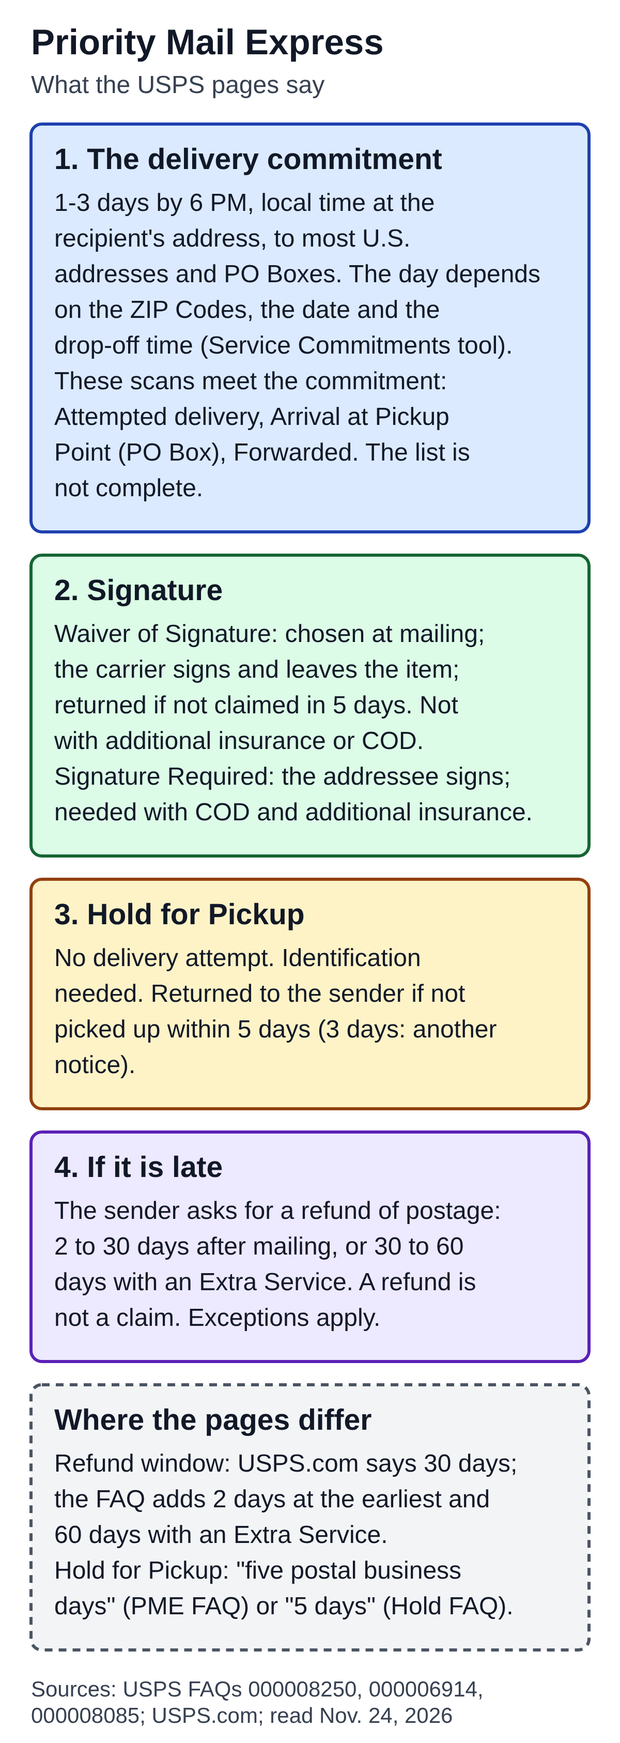
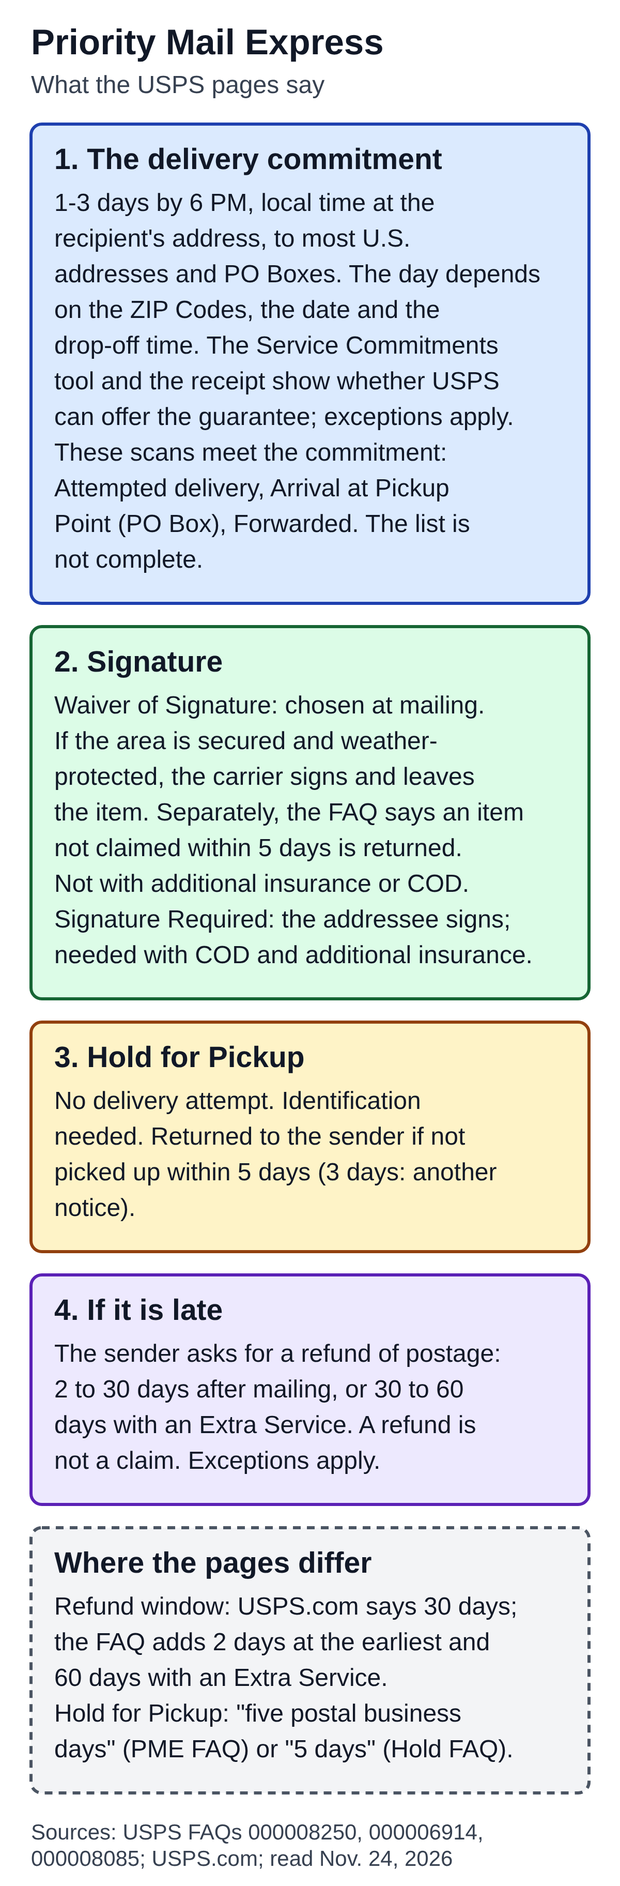
Fix PME and Return Receipt drafts after Gate 2 round 1
PME: separate a left-in-secure-place delivery from the 5-day unclaimed
return; put the guarantee's conditions next to it. Return Receipt: add the
48-hour condition and the refund exceptions to the diagram, explain the 48
hour and 3 to 5 day points side by side, tie PME "Form 3811 only" to the
green card. QA, backlog and decision log updated.

Claude-Session: https://claude.ai/code/session_01BXtGEA3Qzg6u2ejRb8jbFU

Changed region(s): [[0.0308, 0.0, 0.9558, 0.9964], [0.925, 0.9342, 0.9558, 0.9653]]

diff --git a/content/drafts/usps-return-receipt-how-it-works.md b/content/drafts/usps-return-receipt-how-it-works.md
@@ -8,7 +8,7 @@ status: draft
 date: 2026-11-24
 internal_link_candidates: usps-certified-mail-how-it-works (published; Return Receipt as an add-on); usps-redelivery-how-it-works (published; notice for signature items); usps-refund-how-it-works (published; refund windows). Each appears once in the body; link texts match the live titles. The Priority Mail Express post of the same day is not linked.
 image: assets/optimized/usps-return-receipt-how-it-works.png
-image_alt: "Diagram of what USPS pages say about a Return Receipt. What it shows: the recipient's signature, the date of delivery and the actual delivery address if different. Bought at the time of mailing; it cannot be bought after mailing. Green card, PS Form 3811: mailed to the sender after delivery; the form is attached at mailing and the mail is endorsed Return Receipt Requested; the card cannot be viewed online. Electronic: bought at a Post Office, then requested on the USPS Tracking website with an email address; usually available within 48 hours of delivery; kept two years. If it did not arrive: ask for the delivery record within 90 days of purchase with PS Form 3811-A. The pages differ on when the email should arrive, on how the email address is given and on the refund timing."
+image_alt: "Diagram of what USPS pages say about a Return Receipt. What it shows: the recipient's signature, the date of delivery and the actual delivery address if different. Bought at the time of mailing; it cannot be bought after mailing. Green card, PS Form 3811: mailed to the sender after delivery; the form is attached at mailing and the mail is endorsed Return Receipt Requested; the card cannot be viewed online; Priority Mail Express is marked Form 3811 only. Electronic: bought at a Post Office, then requested on the USPS Tracking website with an email address; if requested before delivery, usually available within 48 hours of delivery, and if the item is already delivered and the record complete, processed right away; kept two years. If it did not arrive: ask for the delivery record within 90 days of purchase with PS Form 3811-A; the fee is refunded only if USPS fails to provide the signature, unless the item was refused, unclaimed or returned to the sender. The pages differ on how the email address is given and on the refund timing."
 ---
 
 # USPS Return Receipt: Green Card vs. Electronic Proof of Delivery
@@ -17,7 +17,7 @@ image_alt: "Diagram of what USPS pages say about a Return Receipt. What it shows
 
 This article uses the USPS FAQ "Return Receipt - The Basics" (Article 000006076, dated September 18, 2026), the USPS FAQ "Electronic Return Receipt" (Article 000007257, dated May 18, 2026) and section 6.0 of Domestic Mail Manual (DMM) 503, "Additional Mailing Services" (no update date shown), all read on November 24, 2026. It gives no fees or prices, and it does not repeat how Certified Mail works, which is in our article [What Is USPS Certified Mail? What It Includes and How It Works](https://statesideexplained.com/usps-certified-mail-how-it-works/).
 
-![Diagram of what USPS pages say about a Return Receipt. What it shows: the recipient's signature, the date of delivery and the actual delivery address if different. Bought at the time of mailing; it cannot be bought after mailing. Green card, PS Form 3811: mailed to the sender after delivery; the form is attached at mailing and the mail is endorsed Return Receipt Requested; the card cannot be viewed online. Electronic: bought at a Post Office, then requested on the USPS Tracking website with an email address; usually available within 48 hours of delivery; kept two years. If it did not arrive: ask for the delivery record within 90 days of purchase with PS Form 3811-A. The pages differ on when the email should arrive, on how the email address is given and on the refund timing.](assets/optimized/usps-return-receipt-how-it-works.png)
+![Diagram of what USPS pages say about a Return Receipt. What it shows: the recipient's signature, the date of delivery and the actual delivery address if different. Bought at the time of mailing; it cannot be bought after mailing. Green card, PS Form 3811: mailed to the sender after delivery; the form is attached at mailing and the mail is endorsed Return Receipt Requested; the card cannot be viewed online; Priority Mail Express is marked Form 3811 only. Electronic: bought at a Post Office, then requested on the USPS Tracking website with an email address; if requested before delivery, usually available within 48 hours of delivery, and if the item is already delivered and the record complete, processed right away; kept two years. If it did not arrive: ask for the delivery record within 90 days of purchase with PS Form 3811-A; the fee is refunded only if USPS fails to provide the signature, unless the item was refused, unclaimed or returned to the sender. The pages differ on how the email address is given and on the refund timing.](assets/optimized/usps-return-receipt-how-it-works.png)
 
 ## What a Return Receipt shows
 
@@ -47,13 +47,13 @@ The Basics FAQ says a Return Receipt may be purchased at the time of mailing, an
 
 The Basics FAQ says Return Receipt (PS Form 3811) is available for Priority Mail Express (marked "Form 3811 only"), Priority Mail, First-Class Mail, USPS Ground Advantage - Commercial and Parcel Select. After Parcel Select it puts a condition in parentheses, "if purchased with" Certified Mail, Collect on Delivery (COD), insurance over a value the FAQ states, or Registered Mail, and it does not say whether the condition covers the classes listed before it. It lists further classes, including Bound Printed Matter, Library Mail and Media Mail, when bought with COD or insurance over that value. For international mail, the FAQ says a Return Receipt is available for First-Class Mail International only with Registered Mail to certain destinations, using PS Form 2865, a pink card.
 
-The same FAQ lists extra services that can be combined with a Return Receipt: Certified Mail (including its restricted delivery and adult signature variants), Restricted Delivery, COD, Registered Mail, USPS Tracking, Signature Confirmation, insurance above the stated value and Adult Signature services. Some of these are marked "Form 3811 only." The Electronic Return Receipt FAQ lists the domestic classes in the same way and also marks Priority Mail Express "Form 3811 only." The DMM's sentence about the PME return address carries the note "Form 3811 option only." Our [USPS Redelivery: How to Schedule It, Cutoffs and Return Dates](https://statesideexplained.com/usps-redelivery-how-it-works/) article lists Return Receipt among the items that get a redelivery notice.
+The same FAQ lists extra services that can be combined with a Return Receipt: Certified Mail (including its restricted delivery and adult signature variants), Restricted Delivery, COD, Registered Mail, USPS Tracking, Signature Confirmation, insurance above the stated value and Adult Signature services. Some of these are marked "Form 3811 only." Both FAQs mark Priority Mail Express "Form 3811 only." Form 3811 is the green card, one of the two forms a mailer can choose between, so for Priority Mail Express the FAQs point to the green card rather than the email. The DMM has a similar note, "Form 3811 option only," but it appears in its sentence about the return address on the PME label, so this article reads it as applying to that sentence and not to the whole service. Our [USPS Redelivery: How to Schedule It, Cutoffs and Return Dates](https://statesideexplained.com/usps-redelivery-how-it-works/) article lists Return Receipt among the items that get a redelivery notice.
 
 ## Getting the electronic version
 
 The Electronic Return Receipt FAQ says it must be requested at the time of mailing and that USPS must wait for delivery and for the signature record to be complete before it can email it. To get the delivery record, the FAQ says to go to the USPS Tracking website, enter the Certified Mail, COD, insured (over the stated value) or Registered Mail article number from the label or receipt, and enter an email address when the Return Receipt (Electronic) option appears. The Basics FAQ gives the same steps for requesting it again: enter the tracking number in USPS Tracking, select "Return Receipt Electronic" under "Available Actions," and provide an email address. Without the article barcode number, the FAQ says the electronic version cannot be obtained.
 
-On timing, the FAQ says that if the record is requested for an article that has already been delivered and the paperwork is complete, it is processed immediately and the email should arrive within hours depending on the email server. If it is requested before delivery, USPS waits, and the letter is usually available to be sent within 48 hours of delivery. The email includes a link to USPS Tracking with the delivery information filled in, and the signature arrives as a proof of delivery letter attached to the email.
+On timing, the FAQ says that if the record is requested for an article that has already been delivered and the paperwork is complete, it is processed immediately and the email should arrive within hours depending on the email server. If it is requested before delivery, USPS waits, and the letter is usually available to be sent within 48 hours of delivery. The email includes a link to USPS Tracking with the delivery information filled in, and the signature arrives as a proof of delivery letter attached to the email. The 48-hour sentence applies to a request made before delivery. The 3 to 5 day advice in the Basics FAQ, described below, counts from the request and tells a sender who has not received the email what to check; it is not a second delivery time.
 
 The FAQ calls the electronic version an official USPS document "designed to be equivalent to" the hard copy, and says its legal status "is not determined by the Postal Service," because that decision is made by individual courts. Records are kept for two years from the date of mailing, and after 60 days the record will take longer to retrieve. For senders who mail large volumes, such as 25 items a day, the FAQ describes the USPS Bulk Proof of Delivery Program, which provides signature data in an extract file.
 
@@ -69,10 +69,8 @@ For a refund, the Basics FAQ says Return Receipt fees are refunded only if USPS 
 
 ## Where the USPS pages differ
 
-- **When the email should arrive.** The Electronic Return Receipt FAQ says the letter is usually available within 48 hours of delivery. The Basics FAQ says that if an electronic receipt has not arrived within 3 to 5 days of the request, check the delivery status. The pages do not say how the two fit together.
 - **How the email address is given.** The Basics FAQ says a mailer may choose to receive the receipt "by email." The DMM says a mailer may choose electronic delivery by email or by signature extract file. The Electronic Return Receipt FAQ says the email address is entered later on the USPS Tracking website, not at purchase, and that the electronic version cannot be bought through USPS.com.
 - **Refund timing.** One sentence says a refund request is made "not less than 30 days, or more than 60 days from the date of mailing." The next says a sender who bought at a Post Office may ask for a refund or replacement after 30 calendar days from mailing, or any time after the item is known to be delivered. The pages do not say which applies to a given sender.
-- **Priority Mail Express.** The FAQ and the DMM say Form 3811 only for PME. The Electronic Return Receipt FAQ lists PME with the same "Form 3811 only" note. The pages do not spell out whether PME can have the electronic version.
 
 ## What the pages do not say
 

diff --git a/docs/content-backlog.md b/docs/content-backlog.md
@@ -76,8 +76,8 @@ Pilot 12 plan: 12 published + 0 ready + 0 draft + 0 briefs = 12 slots, 4 per lan
 | 40 | `usps-redelivery-how-it-works` | USPS Redelivery: How to Schedule It, Cutoffs and Return Dates | `usps redelivery` | **published 2026-11-20** (post 155, media 154; Gate 1 done by Claude: 41 claims, 10 image checks; Gate 2 round 1 on `5662d08` = FIX (electronic-signature exception), applied in `39202d9`, round 2 PASS; moved to ready 2026-11-20; the four sources re-read right before publishing with no change; live URL https://statesideexplained.com/usps-redelivery-how-it-works/ ; live QA passed, see `editorial/qa/`) | post-pilot (not counted) | Lane: postal service and stamps. Chosen 2026-11-20 from the user's two proposals (`docs/next-candidates-2026-11-20.md`). Sources: USPS FAQ "Redelivery - The Basics" (000005320, Sep 16, 2026), FAQ 000006169 (Apr 7, 2026), FAQ "PS Form 3849 Redelivery Notice" (000006180, Jun 29, 2026), USPS.com "Schedule a Redelivery" (no date). Excluded on 2026-11-13 as covered by the tracking post before the FAQs were read; reopened because the FAQs hold scheduling, cutoff, return-date and eligibility rules the tracking post lacks (role split in the brief). Demand: Google Trends relative index only (about 0.6 x "usps tracking status" over 90 days); search volume not checked. No prices. Source differences shown (return-date wording, COD 10 against 30 days, change deadline, unexplained status list). Links: tracking status, Informed Delivery, Certified Mail. Re-read all four pages right before publishing. |
 | 41 | `usps-return-to-sender-how-it-works` | USPS Return to Sender: Refused, Misdelivered, Undeliverable | `usps return to sender` | **published 2026-11-20** (post 157, media 156; Gate 1 done by Claude: 43 claims, 110 phrase checks, 8 image checks; Gate 2 round 1 on `ec2de70` = FIX (returned and not-arrived mail mixed; exceptions after delivery missing from the table), applied in `39202d9`, round 2 PASS; moved to ready 2026-11-20; the five sources re-read right before publishing with no change; live URL https://statesideexplained.com/usps-return-to-sender-how-it-works/ ; live QA passed, see `editorial/qa/`) | post-pilot (not counted) | Lane: postal service and stamps. Reframed from the held idea "undeliverable and misdelivered mail" on the user's instruction of 2026-11-20 (`docs/next-candidates-2026-11-20.md`). Sources: FAQ 000006175 (May 19, 2026), FAQ 000006162 (Sep 3, 2026), DMM 508.1.1, DMM 507.1.8 and 1.9, DMM 604.8.1 (no update dates). Three situations kept apart (mail for someone else, refusing mail, a sender's mail returned). Demand: Trends relative only (about 0.95 x redelivery over 90 days); search volume not checked. Open source differences shown in the article: section numbers cited by the FAQ, four against five non-refusable types, "Refused" against "Not at this address", "reasonable time" undefined. Overlap with Missing Mail, Mail Forwarding, Tracking status and Certified Mail handled by one sentence and one link each; a link from the redelivery post is proposed after publication. Re-read all five sources right before publishing. |
 | 42 | `usps-smart-locker-vs-parcel-locker` | USPS Smart Locker vs. Parcel Locker: Three Kinds of USPS Lockers | `usps parcel locker` | **published 2026-11-24** (post 165, media 164; live URL https://statesideexplained.com/usps-smart-locker-vs-parcel-locker/ ; moved to ready 2026-11-24; the nine sources re-read right before publishing with no important change; live QA passed, see `editorial/qa/`; history: Gate 1 done by Claude: 44 claims, 135 phrase checks with 1 miss that is a paraphrase, 3 image checks; Gate 2 round 1 on `6ddb13c` = FIX (Priority Mail Express count missing from the lead, table, diagram, alt and the differences paragraph), applied; Gate 2 round 2 on `7dd55bb` = FIX (lower diagram card mixed the start and the return point), applied; Gate 2 round 3 (changed part only) on `3bb374d` = PASS) | post-pilot (not counted) | Lane: postal service and stamps. Chosen on the user's approval of 2026-11-24 (`docs/next-candidates-2026-11-24.md`), reframed to the searched phrase "usps parcel locker" with three kinds of locker kept apart (Smart Locker, gopost, cluster box parcel locker). Sources: FAQ 000008414 (Jul 28, 2026), FAQ 000006975 (Aug 4, 2026), FAQ 000007973 (Oct 22, 2026), three USPS.com Smart Lockers pages (no update dates), FAQ 000005320, 000006180, 000006169. Demand: Trends relative only ("usps parcel locker" about 0.74 x the tracking status anchor over 90 days; "usps smart locker" about 0.03 x), not read as Smart Locker interest alone; search volume not checked. Differences shown in the article: Priority Mail Express return timing, "anytime, anywhere" against lobby hours, two maximum sizes, notice label history. Overlap with redelivery, PO Box, tracking status and Informed Delivery handled by one sentence and one link each (links to judge at Gate 2). Priority Mail Express post deferred to the next candidate list. Re-read all nine sources right before publishing. |
-| 43 | `usps-priority-mail-express-how-it-works` | USPS Priority Mail Express: What the 1-3 Day Guarantee Covers | `usps priority mail express` | **draft 2026-11-24** (Gate 1 done by Claude: 16 claim groups, 114 phrase checks with 1 miss that was my typo, 3 image checks; waiting for Gate 2; not moved to ready; nothing built in WordPress from the repository file) | post-pilot (not counted) | Lane: postal service and stamps. Held candidate 2 of the ninth survey; one of two posts for the 2026-11-25 slots (9 AM and 3 PM KST) the user relayed. Sources: FAQ 000008250 (May 22, 2026), USPS.com PME page (no date), FAQ 000006914 (Oct 11, 2023), FAQ 000008085 (May 19, 2026). Demand: Trends relative only (about 0.86 x the tracking status anchor over 90 days); search volume not checked. No prices, fees or insurance amounts. Refund rules given briefly with a link to post 147; differences shown: refund window, Hold for Pickup days, 7-day delivery against markets, age of the signature FAQ. Five internal links (refund, holiday deadlines, tracking status, redelivery, claim). Older quick WordPress draft 153 is not used. Re-read all four sources right before publishing. |
-| 44 | `usps-return-receipt-how-it-works` | USPS Return Receipt: Green Card vs. Electronic Proof of Delivery | `usps return receipt` | **draft 2026-11-24** (Gate 1 done by Claude: 15 claim groups, 87 phrase checks with 1 miss caused by the page's own spacing, 3 image checks; waiting for Gate 2; not moved to ready; nothing built in WordPress from the repository file) | post-pilot (not counted) | Lane: postal service and stamps. From the ninth survey's measured list; second post for the 2026-11-25 slots. Sources: FAQ 000006076 (Sep 18, 2026), FAQ 000007257 (May 18, 2026), DMM 503 section 6.0 (no date). Demand: Trends relative only (about 0.23 x the anchor over 90 days, 0.33 x over 28 days); search volume not checked. No fees. Differences shown: electronic email timing, how the email address is given, two refund-timing sentences, whether PME can have the electronic version. Three internal links (Certified Mail, redelivery, refund). Older quick WordPress draft 168 is not used. Re-read all three sources right before publishing. |
+| 43 | `usps-priority-mail-express-how-it-works` | USPS Priority Mail Express: What the 1-3 Day Guarantee Covers | `usps priority mail express` | **draft 2026-11-24** (Gate 1 done by Claude: 16 claim groups, 114 phrase checks with 1 miss that was my typo, 3 image checks; Gate 2 round 1 on `f839045` = FIX (signature waiver card mixed leaving the item with the 5-day return; the guarantee needed its conditions near it), applied; waiting for Gate 2 round 2; not moved to ready; nothing built in WordPress from the repository file) | post-pilot (not counted) | Lane: postal service and stamps. Held candidate 2 of the ninth survey; one of two posts for the 2026-11-25 slots (9 AM and 3 PM KST) the user relayed. Sources: FAQ 000008250 (May 22, 2026), USPS.com PME page (no date), FAQ 000006914 (Oct 11, 2023), FAQ 000008085 (May 19, 2026). Demand: Trends relative only (about 0.86 x the tracking status anchor over 90 days); search volume not checked. No prices, fees or insurance amounts. Refund rules given briefly with a link to post 147; differences shown: refund window, Hold for Pickup days, 7-day delivery against markets, age of the signature FAQ. Five internal links (refund, holiday deadlines, tracking status, redelivery, claim). Older quick WordPress draft 153 is not used. Re-read all four sources right before publishing. |
+| 44 | `usps-return-receipt-how-it-works` | USPS Return Receipt: Green Card vs. Electronic Proof of Delivery | `usps return receipt` | **draft 2026-11-24** (Gate 1 done by Claude: 15 claim groups, 87 phrase checks with 1 miss caused by the page's own spacing, 3 image checks; Gate 2 round 1 on `f839045` = FIX (electronic timing condition, refund exceptions in the diagram, 48 hours against 3 to 5 days not a conflict, PME "Form 3811 only" tied to the green card), applied; waiting for Gate 2 round 2; not moved to ready; nothing built in WordPress from the repository file) | post-pilot (not counted) | Lane: postal service and stamps. From the ninth survey's measured list; second post for the 2026-11-25 slots. Sources: FAQ 000006076 (Sep 18, 2026), FAQ 000007257 (May 18, 2026), DMM 503 section 6.0 (no date). Demand: Trends relative only (about 0.23 x the anchor over 90 days, 0.33 x over 28 days); search volume not checked. No fees. Differences shown: electronic email timing, how the email address is given, two refund-timing sentences, whether PME can have the electronic version. Three internal links (Certified Mail, redelivery, refund). Older quick WordPress draft 168 is not used. Re-read all three sources right before publishing. |
 
 ## Rejected
 

diff --git a/content/drafts/usps-priority-mail-express-how-it-works.md b/content/drafts/usps-priority-mail-express-how-it-works.md
@@ -8,16 +8,16 @@ status: draft
 date: 2026-11-24
 internal_link_candidates: usps-refund-how-it-works (published; the refund table); usps-holiday-shipping-deadlines-2026 (published; send-by dates); usps-tracking-status-what-it-means (published; scan messages); usps-redelivery-how-it-works (published; notice for signature items); usps-claim-how-it-works (published; insurance claims); the Smart Locker post is not linked. Each appears once in the body; link texts match the live titles.
 image: assets/optimized/usps-priority-mail-express-how-it-works.png
-image_alt: "Diagram of what USPS pages say about Priority Mail Express. Delivery commitment: 1-3 days by 6 PM local time at the recipient's address to most U.S. addresses and PO Boxes; the day depends on the ZIP Codes, the date and the drop-off time; an Attempted delivery, an Arrival at Pickup Point or a Forwarded scan meets the commitment, and the list is not complete. Signature: a waiver of signature is chosen at mailing, the carrier signs and leaves the item, and it is returned if not claimed in 5 days; Signature Required is needed with COD and additional insurance. Hold for Pickup: no delivery attempt, identification needed, returned to the sender after 5 days. If it is late: the sender asks for a refund of postage, 2 to 30 days after mailing or 30 to 60 days with an Extra Service; a refund is not a claim. The pages differ on the refund window and on how Hold for Pickup counts its days."
+image_alt: "Diagram of what USPS pages say about Priority Mail Express. Delivery commitment: 1-3 days by 6 PM local time at the recipient's address to most U.S. addresses and PO Boxes; the day depends on the ZIP Codes, the date and the drop-off time; the Service Commitments tool and the receipt show whether USPS can offer the guarantee for a shipment, and exceptions apply; an Attempted delivery, an Arrival at Pickup Point or a Forwarded scan meets the commitment, and the list is not complete. Signature: a waiver of signature is chosen at mailing, and where the area is secured and protected from weather the carrier signs and leaves the item; separately, the FAQ says an item not claimed within 5 days is returned; Signature Required is needed with COD and additional insurance. Hold for Pickup: no delivery attempt, identification needed, returned to the sender after 5 days. If it is late: the sender asks for a refund of postage, 2 to 30 days after mailing or 30 to 60 days with an Extra Service; a refund is not a claim. The pages differ on the refund window and on how Hold for Pickup counts its days."
 ---
 
 # USPS Priority Mail Express: What the 1-3 Day Guarantee Covers
 
-**USPS pages describe Priority Mail Express (PME) as a 1-3 day service with delivery by 6 PM local time to most U.S. addresses and PO Boxes, backed by a money-back guarantee, and say the scheduled delivery day for a shipment depends on the ZIP Codes, the date and the time of day it is mailed.** An "Attempted delivery" scan can still count as meeting the commitment, the sender can choose a waiver of signature or require a signature, and an item sent as Hold for Pickup goes back to the sender if it is not picked up within 5 days, a count the pages word differently. This article compares what the pages say and shows where they word things differently.
+**USPS pages describe Priority Mail Express (PME) as a 1-3 day service with delivery by 6 PM local time to most U.S. addresses and PO Boxes, backed by a money-back guarantee, and say the scheduled delivery day for a shipment depends on the ZIP Codes, the date and the time of day it is mailed.** Whether a given shipment has the guarantee is shown when it is mailed (the FAQ says the Service Commitments tool shows whether USPS can offer one), and exceptions apply. An "Attempted delivery" scan can still count as meeting the commitment, the sender can choose a waiver of signature or require a signature, and an item sent as Hold for Pickup goes back to the sender if it is not picked up within 5 days, a count the pages word differently. This article compares what the pages say and shows where they word things differently.
 
 This article uses the USPS FAQ "Priority Mail Express Service" (Article 000008250, dated May 22, 2026), the USPS.com page "Priority Mail Express" (no update date shown), the FAQ "What is a Waiver of Signature? What is Signature Required?" (Article 000006914, dated October 11, 2023) and the FAQ "Hold for Pickup Service" (Article 000008085, dated May 19, 2026). All four were read on November 24, 2026. It gives no prices, fees or insurance amounts, and it gives the refund rules only briefly: the full refund table is in our article on [USPS Refunds: What Can Be Refunded, When to Ask and What You Need](https://statesideexplained.com/usps-refund-how-it-works/).
 
-![Diagram of what USPS pages say about Priority Mail Express. Delivery commitment: 1-3 days by 6 PM local time at the recipient's address to most U.S. addresses and PO Boxes; the day depends on the ZIP Codes, the date and the drop-off time; an Attempted delivery, an Arrival at Pickup Point or a Forwarded scan meets the commitment, and the list is not complete. Signature: a waiver of signature is chosen at mailing, the carrier signs and leaves the item, and it is returned if not claimed in 5 days; Signature Required is needed with COD and additional insurance. Hold for Pickup: no delivery attempt, identification needed, returned to the sender after 5 days. If it is late: the sender asks for a refund of postage, 2 to 30 days after mailing or 30 to 60 days with an Extra Service; a refund is not a claim. The pages differ on the refund window and on how Hold for Pickup counts its days.](assets/optimized/usps-priority-mail-express-how-it-works.png)
+![Diagram of what USPS pages say about Priority Mail Express. Delivery commitment: 1-3 days by 6 PM local time at the recipient's address to most U.S. addresses and PO Boxes; the day depends on the ZIP Codes, the date and the drop-off time; the Service Commitments tool and the receipt show whether USPS can offer the guarantee for a shipment, and exceptions apply; an Attempted delivery, an Arrival at Pickup Point or a Forwarded scan meets the commitment, and the list is not complete. Signature: a waiver of signature is chosen at mailing, and where the area is secured and protected from weather the carrier signs and leaves the item; separately, the FAQ says an item not claimed within 5 days is returned; Signature Required is needed with COD and additional insurance. Hold for Pickup: no delivery attempt, identification needed, returned to the sender after 5 days. If it is late: the sender asks for a refund of postage, 2 to 30 days after mailing or 30 to 60 days with an Extra Service; a refund is not a claim. The pages differ on the refund window and on how Hold for Pickup counts its days.](assets/optimized/usps-priority-mail-express-how-it-works.png)
 
 ## What the service is
 
@@ -43,7 +43,7 @@ In the refund section the FAQ repeats that an attempted delivery meets the commi
 
 ## Signature options
 
-The Waiver of Signature FAQ says a waiver is started by the sender, must be checked at the time of mailing and cannot be changed in transit. With a waiver, the FAQ says the letter carrier signs for the domestic PME item as proof of delivery and leaves it in a secure location, if the area is secured and protected from weather. If the recipient does not claim the item within five days, it is returned to the sender. A waiver is not available with additional insurance, with PME Collect on Delivery (COD) or with PME COD Restricted Delivery. The FAQ also says a waiver voids insurance claims for loss of the package, while a claim can still be filed for damaged or missing contents or for service failures.
+The Waiver of Signature FAQ says a waiver is started by the sender, must be checked at the time of mailing and cannot be changed in transit. With a waiver, the FAQ says the letter carrier signs for the domestic PME item as proof of delivery and leaves it in a secure location, if the area is secured and protected from weather; an item left that way has been delivered. Separately, in the same paragraph, the FAQ says that if the item is not claimed within five days by the recipient, it is returned to the sender. The FAQ does not say whether that return applies to an item left in a secure location or only to one that could not be left, and this article does not say either. A waiver is not available with additional insurance, with PME Collect on Delivery (COD) or with PME COD Restricted Delivery. The FAQ also says a waiver voids insurance claims for loss of the package, while a claim can still be filed for damaged or missing contents or for service failures.
 
 For the other choice, the FAQ says that on Label 11-F printed on or after January 2012 the sender who wants the addressee's signature must check the "signature required" box, or indicate it on a single-ply commercial label. If the box is checked, an image of the signature is provided to mailers who access delivery information. If it is not checked, the FAQ says the item can be left. A sender must select Signature Required for PME COD, PME COD Restricted Delivery and PME with additional insurance. Our [USPS Redelivery: How to Schedule It, Cutoffs and Return Dates](https://statesideexplained.com/usps-redelivery-how-it-works/) article lists domestic PME among the items that get a redelivery notice and reports the FAQ's wording about signature waiver.
 

diff --git a/editorial/qa/usps-return-receipt-how-it-works.md b/editorial/qa/usps-return-receipt-how-it-works.md
@@ -2,7 +2,7 @@
 
 Article: `content/drafts/usps-return-receipt-how-it-works.md` (draft, 2026-11-24, about 2,000 words in the body, one H1, nine H2 sections including Sources, one table; meta description 149 characters; alt text 784 characters).
 Brief: `research/briefs/usps-return-receipt-how-it-works.md`. Sources: `research/sources/usps-return-receipt-how-it-works.md` (R1 to R3, read 2026-11-24).
-Stage: draft. Gate 1 (Claude) run on 2026-11-24. Gate 2 not yet run. Backlog row 44.
+Stage: draft. Gate 1 (Claude) run on 2026-11-24. **Gate 2 round 1 (ChatGPT, base `f839045`, user-reported 2026-11-24): FIX, four items, applied 2026-11-24** (section "Gate 2 FIX round 1"); Gate 2 round 2 not yet run. Backlog row 44.
 
 ## Scope
 - No fees, prices or percentages; dollar thresholds in the class lists are written as "a value the FAQ states"; trends are not in the article; search volume not checked.
@@ -39,13 +39,21 @@ All three sources were opened on 2026-11-24 and each statement was tested by scr
 | C15 | Not said: green card transit time; court acceptance; fees point to Notice 123 and "Insurance & Extra Services" | R1, R2 | pass (absence checks) |
 
 ## Image checks
-PNG 1200 x 3234 px, 592,526 bytes, SHA-256 prefix `02ad054d8b57c44a`; SVG 5,627 bytes, `19687db61f06f3e8`; md 13,595 bytes, `79f7080f754b822d`; C2PA chunk and metadata stripped on the device (hashes equal the originals). The rendering script printed no text past the right margin; the PNG was viewed. Alt text (784 characters) matches the front matter and the Markdown alt text.
+After round 1: PNG 1200 x 3372 px, 627,035 bytes, SHA-256 prefix `3497373ec6f530e2`; SVG 6,141 bytes, `4b3886823a585261`; md 14,027 bytes, `1f5a56cb3b399073`; alt text 1,044 characters (first version: PNG 3234 px, `02ad054d8b57c44a`; SVG `19687db61f06f3e8`; md `79f7080f754b822d`; alt 784); C2PA chunk and metadata stripped on the device (hashes equal the originals). The rendering script printed no text past the right margin; the PNG was viewed. Alt text (784 characters) matches the front matter and the Markdown alt text.
 
 ## Open points for Gate 2
 1. "Not stated" for where to buy the green card, and the sentence about the parenthetical condition after Parcel Select: fair readings of the FAQ?
-2. The PME and electronic version point: the article says the pages do not spell out whether PME can have it.
+2. (Round 1 asked for the Priority Mail Express point to be tied to the form a reader can choose and for the DMM note's scope to be marked separately; applied. Re-check the new wording.)
 3. The two refund-timing sentences shown as a difference.
-4. Whether the DMM "Form 3811 option only" note belongs to the PME return address rule only (the article says it "carries the note").
+4. (Round 1: the electronic timing and the 3 to 5 day advice are no longer shown as a difference; re-check.)
 
 ## Not checked
 WordPress draft, editor, mobile, live page, publication slot. Search volume: not checked. Return Receipt for Merchandise not read.
+
+## Gate 2 FIX round 1 (2026-11-24, base `f839045`): applied
+
+Reviewer result, four items: (1) the diagram's "usually available within 48 hours of delivery" lacked its condition: USPS gives it for a request made before delivery (USPS waits for delivery and for the signature record to be complete); for an item already delivered with the record complete, the FAQ says it is processed immediately; diagram, alt and the differences text had to be aligned. (2) The diagram's refund line lacked the exceptions (refused, unclaimed, returned to sender) that the body has. (3) "48 hours" and "check after 3 to 5 days" have different starting points and purposes, so calling them a conflict is not safe; they should be explained side by side. (4) On Priority Mail Express, the FAQs mark "Form 3811 only"; the article should tie that to the form a reader can choose and mark the scope of the DMM wording separately, instead of saying the pages do not say whether PME can have the electronic version.
+
+Applied: (1) diagram card 3 and the alt text: "requested before delivery: usually available within 48 hours of delivery; already delivered and recorded: processed right away." (2) diagram card 4 and the alt text: the fee is refunded only if USPS fails to provide the signature, unless the item was refused, unclaimed or returned to the sender. (3) the body's timing bullet was removed from "Where the USPS pages differ" and replaced by two sentences in "Getting the electronic version": the 48-hour sentence applies to a request made before delivery, and the 3 to 5 day advice counts from the request and tells a sender what to check and is not a second delivery time; the diagram's differences card no longer lists email timing. (4) "Which mail it goes with": both FAQs mark Priority Mail Express "Form 3811 only", Form 3811 is the green card (one of the two forms a mailer can choose between), so the FAQs point to the green card rather than the email for PME; the DMM's similar note "Form 3811 option only" is in its sentence about the return address on the PME label, so the article reads it as applying to that sentence, not to the whole service; the PME bullet was removed from the differences list; diagram card 2 adds "Priority Mail Express: marked Form 3811 only." The differences list now has two items (how the email address is given; refund timing); the alt text matches.
+
+Phrases used were already tested against the Basics FAQ, the Electronic FAQ and DMM 6.0 on 2026-11-24 (Form 3811 only on both FAQ lists; "usually available to be sent by email within 48 hours of delivery"; "we will process it immediately"; "Form 3811 option only" in 6.1.1). Nothing is published; Gate 2 round 2 is needed.

diff --git a/editorial/qa/usps-priority-mail-express-how-it-works.md b/editorial/qa/usps-priority-mail-express-how-it-works.md
@@ -2,7 +2,7 @@
 
 Article: `content/drafts/usps-priority-mail-express-how-it-works.md` (draft, 2026-11-24, about 1,900 words in the body, one H1, nine H2 sections including Sources; meta description 146 characters; alt text 891 characters).
 Brief: `research/briefs/usps-priority-mail-express-how-it-works.md`. Sources: `research/sources/usps-priority-mail-express-how-it-works.md` (S1 to S4, read 2026-11-24).
-Stage: draft. Gate 1 (Claude) run on 2026-11-24. Gate 2 not yet run. Backlog row 43.
+Stage: draft. Gate 1 (Claude) run on 2026-11-24. **Gate 2 round 1 (ChatGPT, base `f839045`, user-reported 2026-11-24): FIX, two items, applied 2026-11-24** (section "Gate 2 FIX round 1"); Gate 2 round 2 not yet run. Backlog row 43.
 
 ## Scope
 - No prices, fees, insurance amounts or percentages anywhere (the article says the Sunday and holiday fee exists and does not give it); trends are not in the article; search volume not checked.
@@ -42,7 +42,7 @@ All four pages were opened on 2026-11-24 and each statement tested by script (no
 | C16 | Not said: markets, complete scan list, receipt format, cutoff handling | S1 to S4 | pass (absence checks) |
 
 ## Image checks
-PNG 1200 x 3372 px, 626,204 bytes, SHA-256 prefix `40c306f03a8354f4`; SVG 5,919 bytes, `3dffbcc000ba3564`; md 13,726 bytes, `1030473f21a0f457`; C2PA chunk and metadata stripped on the device (hashes equal the originals). The rendering script printed no text past the right margin; the PNG was viewed. Diagram text only repeats facts from the article; alt text (891 characters) matches the front matter and the Markdown alt text.
+After round 1: PNG 1200 x 3648 px, 696,273 bytes, SHA-256 prefix `2c00d8340b38aa9b`; SVG 6,607 bytes, `4d81bdbb66b80f0f`; md 14,575 bytes, `77c8384bf0e42e97`; alt text 1,100 characters (first version: PNG 3372 px, `40c306f03a8354f4`; SVG `3dffbcc000ba3564`; md `1030473f21a0f457`; alt 891); C2PA chunk and metadata stripped on the device (hashes equal the originals). The rendering script printed no text past the right margin; the PNG was viewed. Diagram text only repeats facts from the article; alt text (891 characters) matches the front matter and the Markdown alt text.
 
 ## Open points for Gate 2
 1. Is the refund section (about 330 words) too close to post 147? It is limited to what the FAQ states.
@@ -52,3 +52,11 @@ PNG 1200 x 3372 px, 626,204 bytes, SHA-256 prefix `40c306f03a8354f4`; SVG 5,919 
 
 ## Not checked
 WordPress draft, editor, mobile, live page, publication slot. Search volume: not checked (Trends relative only). Two older quick drafts in WordPress (post 153 and 168) are not used.
+
+## Gate 2 FIX round 1 (2026-11-24, base `f839045`): applied
+
+Reviewer result: two items. (1) The diagram's Waiver of Signature card put "the carrier leaves the item" and "returned if not claimed in 5 days" in one line, so an item already left in a secure place could look as if it is returned after 5 days; delivered-by-leaving and not-claimed-and-held had to be separated. (2) The lead and the diagram's opening card should not let the money-back guarantee read as automatic for every shipment: the conditions and exceptions should sit close to it.
+
+Applied: (1) body: with a waiver the carrier signs and leaves the item in a secure location where the area is secured and protected from weather, and an item left that way has been delivered; separately, in the same paragraph, the FAQ says an item not claimed within five days by the recipient is returned to the sender; the article says the FAQ does not say whether that return applies to an item left in a secure location or only to one that could not be left. Diagram card 2 and the alt text say the same (carrier signs and leaves the item where the area is secured and weather-protected; "separately, the FAQ says an item not claimed within 5 days is returned"). (2) the lead now says whether a given shipment has the guarantee is shown when it is mailed (the FAQ says the Service Commitments tool shows whether USPS can offer one) and that exceptions apply; diagram card 1 and the alt text carry the same condition. The rest of the article is unchanged, including the refund exceptions list, the Hold for Pickup section and the Where the pages differ section.
+
+The Waiver of Signature FAQ wording was re-checked against the earlier read of the page (same paragraph: carrier signs and leaves; "If the item is not claimed within five days by the Recipient, it will be returned to the Sender"). Nothing is published; Gate 2 round 2 is needed.

diff --git a/docs/decision-log.md b/docs/decision-log.md
@@ -1590,3 +1590,7 @@ Gate 2 round 3 on `3bb374d` was PASS for the diagram card. Right before publishi
 ## 2026-11-24 (KST) — Priority Mail Express and Return Receipt drafts written (Gate 1 done, Gate 2 pending)
 
 The user relayed a report that two private WordPress drafts (Priority Mail Express, post 153; Return Receipt, post 168) had been made outside the repository workflow and that no publication slots (2026-11-25, 9 AM and 3 PM KST) were set. The drafts were one block each, about 500 words, in the category Uncategorized and without a slug; they were read only and not changed. The user said to follow the usual workflow. Both posts were researched from official pages, written from scratch in the repository with diagrams, and tested by script (Priority Mail Express: 4 sources, 114 phrase checks; Return Receipt: 3 sources, 87 phrase checks). No prices, fees or insurance amounts; Trends relative only, search volume not checked. After Gate 2 PASS the posts go into new WordPress drafts and are scheduled (the site clock looks like UTC, so 9 AM and 3 PM KST are 00:00 and 06:00 UTC on 2026-11-25, to be confirmed after scheduling); posts 153 and 168 stay untouched until the user decides. The three optional refund links and the four link proposals stay unapplied.
+
+## 2026-11-24 (KST) — Gate 2 round 1 on the Priority Mail Express and Return Receipt drafts: FIX, applied
+
+Round 1 on `f839045` was FIX for both. Priority Mail Express: the signature card is split into "the carrier leaves the item where the area is secured and weather-protected" and, separately, "an item not claimed within 5 days is returned" (the article says the FAQ does not say how the two connect), and the guarantee is tied to the receipt, the Service Commitments tool and its exceptions in the lead and the diagram. Return Receipt: the 48-hour condition (request made before delivery) and the already-delivered case are in the diagram and alt; the refund exceptions are in the diagram; 48 hours and 3 to 5 days are explained side by side and no longer listed as a difference; Priority Mail Express "Form 3811 only" is tied to the green card, with the DMM note's scope kept to its own sentence. Nothing is published; no publication slot is set; Gate 2 round 2 is needed for both before scheduling.
